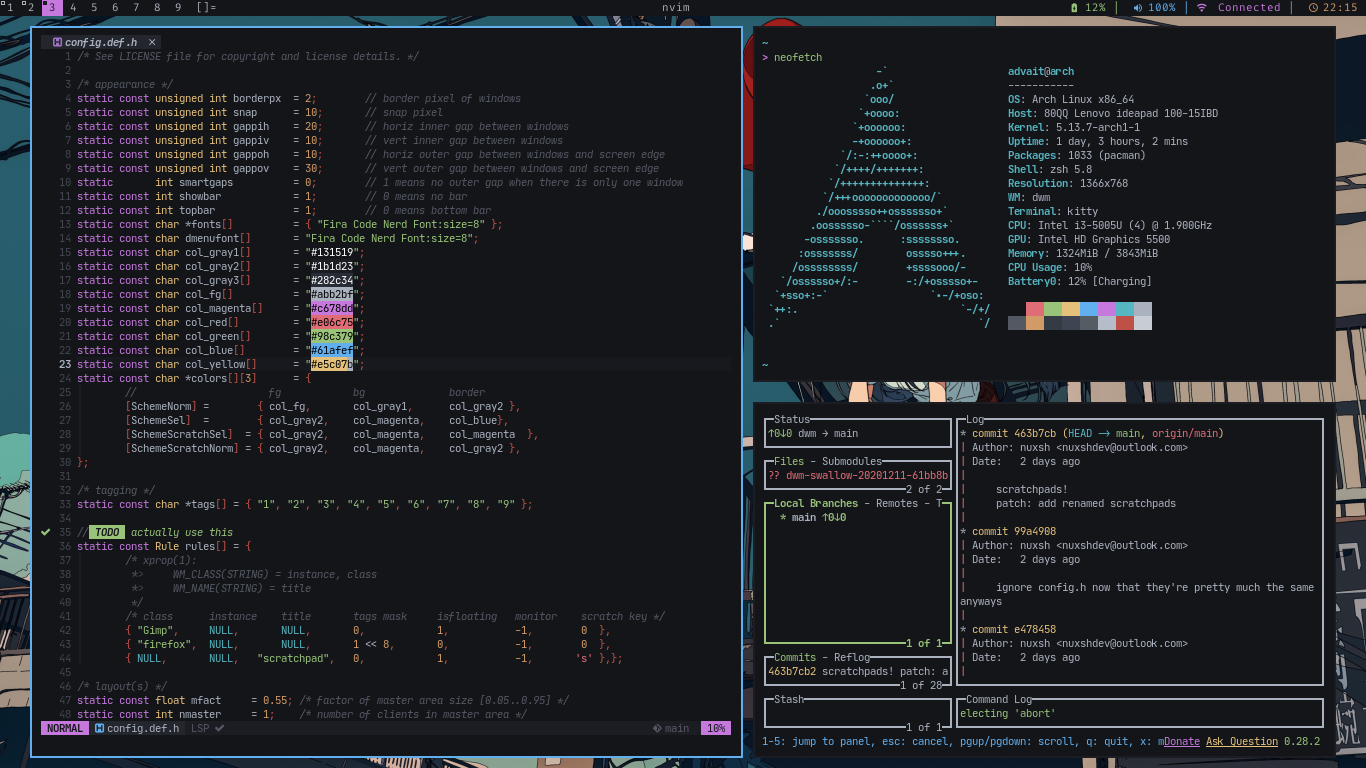
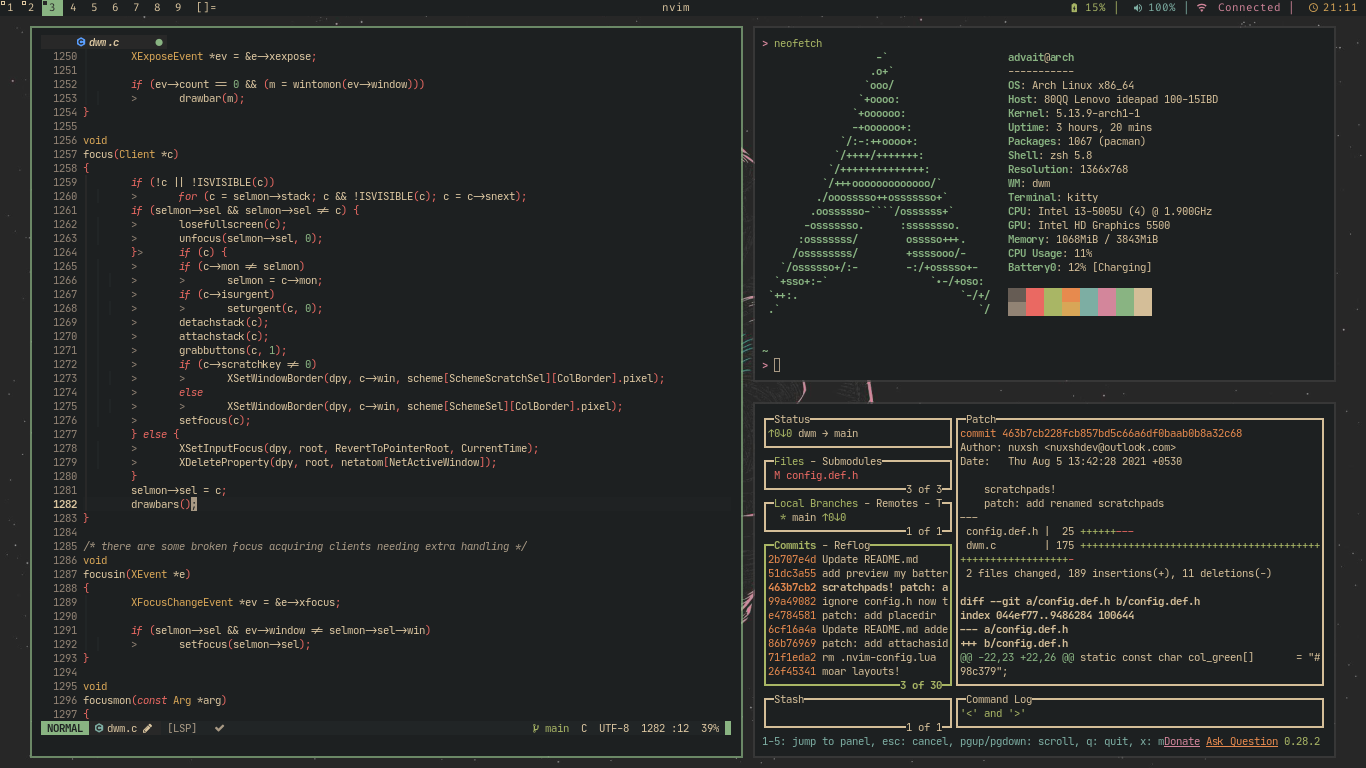
grubbbox

Changed region(s): [[0.0, 0.0, 1.0, 1.0]]

diff --git a/config.def.h b/config.def.h
@@ -12,21 +12,22 @@ static const int showbar            = 1;        // 0 means no bar
 static const int topbar             = 1;        // 0 means bottom bar
 static const char *fonts[]          = { "Fira Code Nerd Font:size=8" };
 static const char dmenufont[]       = "Fira Code Nerd Font:size=8";
-static const char col_gray1[]       = "#131519";
-static const char col_gray2[]       = "#1b1d23";
-static const char col_gray3[]       = "#282c34";
-static const char col_fg[]          = "#abb2bf";
-static const char col_magenta[]     = "#c678dd";
-static const char col_red[]         = "#e06c75";
-static const char col_green[]       = "#98c379";
-static const char col_blue[]        = "#61afef";
-static const char col_yellow[]      = "#e5c07b";
+static const char col_gray1[]       = "#1d2021";
+static const char col_gray2[]       = "#282828";
+static const char col_gray3[]       = "#3f3f3f";
+static const char col_fg[]          = "#ddc7a1";
+static const char col_magenta[]     = "#d3869b";
+static const char col_red[]         = "#ea6962";
+static const char col_green[]       = "#a9b665";
+static const char col_blue[]        = "#7daea3";
+static const char col_yellow[]      = "#d8a657";
+static const char col_aqua[]        = "#89b482";
 static const char *colors[][3]      = {
 	//                      fg            bg              border
-	[SchemeNorm] =        { col_fg,       col_gray1,      col_gray2 },
-	[SchemeSel]  =        { col_gray2,    col_magenta,    col_blue},
-	[SchemeScratchSel]  = { col_gray2,    col_magenta,    col_magenta  },
-	[SchemeScratchNorm] = { col_gray2,    col_magenta,    col_gray2 },
+	[SchemeNorm] =        { col_fg,       col_gray1,      col_gray3 },
+	[SchemeSel]  =        { col_gray2,    col_aqua,    col_aqua},
+	[SchemeScratchSel]  = { col_gray2,    col_aqua,    col_red },
+	[SchemeScratchNorm] = { col_gray2,    col_aqua,    col_gray2 },
 };
 
 /* tagging */
